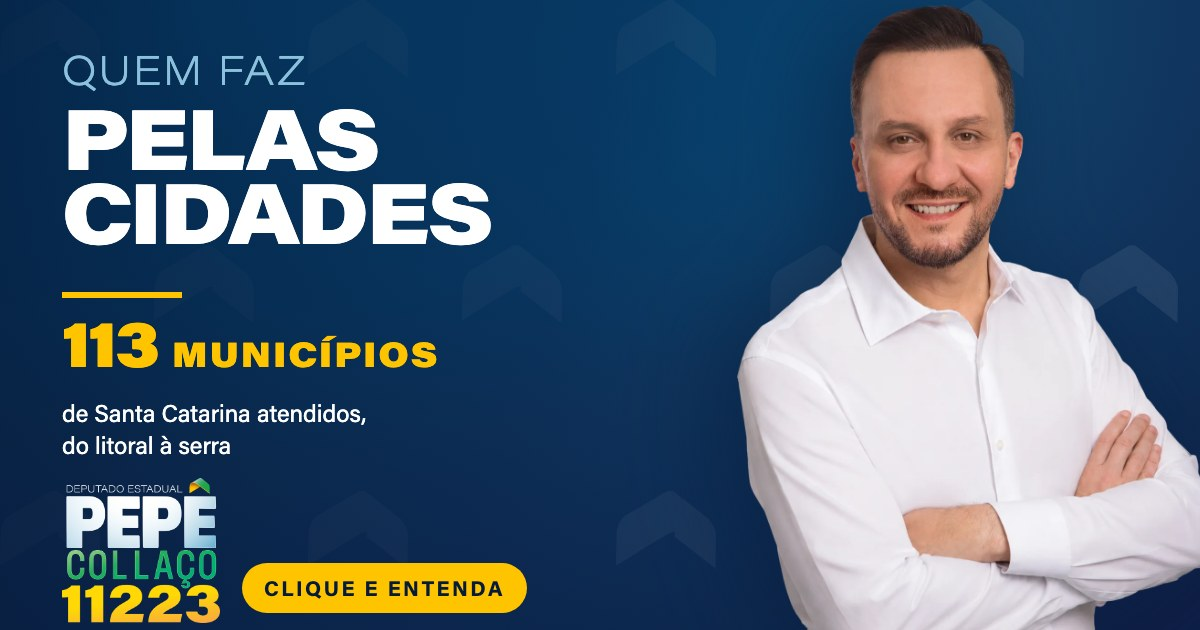
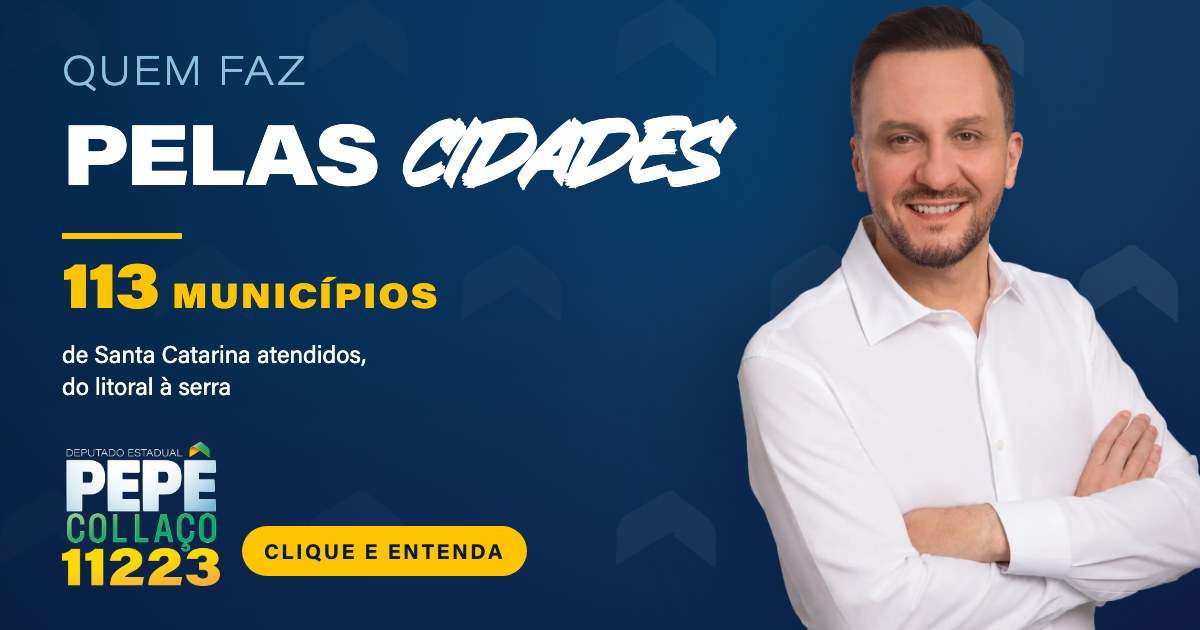
Leva o pincel também para as imagens de compartilhamento
A regra do --fonte-brush é uma palavra por peça, e na OG a palavra é o
assunto: a preposição sai em letra de forma e o assunto à mão, do mesmo
jeito que a assinatura QUEM FAZ REPRESENTA separa "QUEM FAZ" de
"REPRESENTA".

A palavra em pincel fica branca, e não amarela. No quadro já são
amarelos a régua e o número, e um terceiro amarelo tiraria o número do
lugar de destaque. Aqui quem destaca é o traço, não a cor.

O ajuste automático de corpo passa a medir o <h1> inteiro, e não só o
primeiro span: com o título partido em dois, medir só um pedaço deixaria
o outro estourar a caixa. Sem o parâmetro destaque o span some, e o
título volta a ser uma peça só.

Changed region(s): [[0.0308, 0.1508, 0.6167, 0.9952]]

diff --git a/quem-faz/og/template.html b/quem-faz/og/template.html
@@ -104,6 +104,20 @@
   /* só o sinal de mais fica fino, como nas páginas */
   .numero .mais { font-weight: var(--peso-display-leve); }
 
+  /* A palavra do assunto em pincel, como a assinatura QUEM FAZ REPRESENTA
+     faz: a preposição em letra de forma, o assunto à mão. Uma palavra, que é
+     a regra do --fonte-brush.
+
+     Fica branca, e não amarela: no quadro já são amarelos a régua e o número,
+     e um terceiro amarelo tira o número do lugar de destaque. Aqui quem
+     destaca é o traço, não a cor. */
+  .pincel {
+    font-family: var(--fonte-brush);
+    font-weight: 400;
+    font-size: 1.1em;
+    padding-inline: .1em .06em;
+  }
+
   .legenda {
     margin-top: 15px;
     font-size: 24px; line-height: 1.32;
@@ -134,7 +148,7 @@
     <img class="retrato" id="retrato" src="../../assets/brand/foto/pepe-busto-1400.webp" alt="" />
     <div class="conteudo">
       <div class="olho">Quem faz</div>
-      <h1 id="titulo">POR TUBARÃO</h1>
+      <h1><span id="titulo">POR</span> <span class="pincel" id="destaque">TUBARÃO</span></h1>
       <div class="regua"></div>
       <div class="numero"><span id="numero">R$ 18,2</span><span class="un" id="unidade">MILHÕES</span></div>
       <div class="legenda" id="legenda">destinados à cidade em três anos de mandato</div>
@@ -152,9 +166,12 @@
     if (v !== null) document.getElementById(id).textContent = v;
   };
   põe('titulo', 'titulo');
+  põe('destaque', 'destaque');
   põe('numero', 'numero');
   põe('unidade', 'unidade');
   põe('legenda', 'legenda');
+
+  if (!p.get('destaque')) document.getElementById('destaque').remove();
 
   // o sinal de mais é o único pedaço fino do número
   const n = document.getElementById('numero');
@@ -170,7 +187,7 @@
   // "POR TUBARÃO" e "PELA EDUCAÇÃO" têm quase o mesmo tamanho e larguras bem
   // diferentes. Então mede-se de verdade, e desce de 2 em 2 até parar de
   // estourar a caixa, assim as sete páginas ganham o maior título possível.
-  const t = document.getElementById('titulo');
+  const t = document.querySelector('h1');
   const caixa = document.querySelector('.conteudo');
   const coube = () => caixa.scrollHeight <= caixa.clientHeight;
   document.fonts.ready.then(() => {
